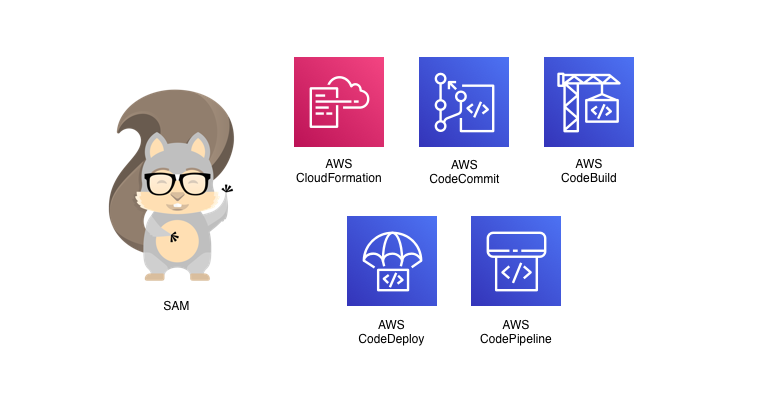
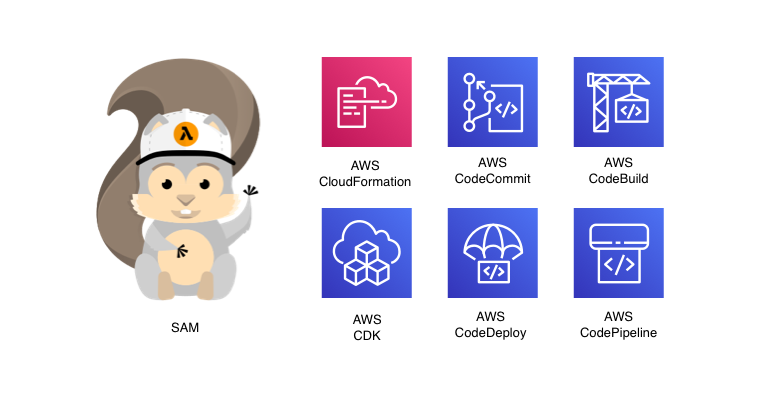
Updated intro to show CDK

diff --git a/README.md b/README.md
@@ -1,16 +1,18 @@
 # CI/CD for Serverless Applications Workshop
 
-In this workshop, you will learn how to start a new Serverless application from scratch using the AWS Serverless Application Model (AWS SAM) and how to fully automate builds and deployments by building a continous delivery pipeline using AWS CodeCommit, AWS CodeBuild and AWS CodePipeline. You will also learn how to test a Serverless application locally using the SAM CLI.
+In this workshop, you will learn how to start a new Serverless application from scratch using the AWS Serverless Application Model (AWS SAM) and how to fully automate builds and deployments by building a continous delivery pipeline using the AWS CDK. You will also learn how to run a Serverless application locally using the SAM CLI.
 
 ![Image](workshop/static/images/github-home.png)
 
 ## Getting Started
 
-[https://cicd.serverlessworkshops.io](https://cicd.serverlessworkshops.io)
+Workshop URL: [https://cicd.serverlessworkshops.io](https://cicd.serverlessworkshops.io)
+
+Looking for the old version of the workshop that **doesn't** use the AWS CDK? [https://v1.cicd.serverlessworkshops.io](https://cicd.serverlessworkshops.io). 
 
 ## Want to contribute?
 
-Check our [contribution guidelines](CONTRIBUTING.md) before submitting a pull request. Any contribution must be done to the `dev` branch.
+Check our [contribution guidelines](CONTRIBUTING.md) before submitting a pull request. Please submit your contributions to the `dev` branch.
 
 ## License
 

diff --git a/workshop/content/_index.en.md b/workshop/content/_index.en.md
@@ -5,9 +5,9 @@ weight = 1
 +++
 # CI/CD for Serverless Applications
 
-In this workshop, you will learn how to start a new Serverless application from scratch using the AWS Serverless Application Model (AWS SAM) and how to fully automate builds and deployments by building a continous delivery pipeline using AWS CodeCommit, AWS CodeBuild and AWS CodePipeline. You will also learn how to test a Serverless application locally using the SAM CLI. 
+In this workshop, you will learn how to start a new Serverless application from scratch using the AWS Serverless Application Model (AWS SAM) and how to fully automate builds and deployments by building a continous delivery pipeline using the AWS CDK. You will also learn how to run a Serverless application locally using the SAM CLI.
 
-![Intro](/images/intro.png)
+![Intro](/images/github-home.png)
 
 ### Issues, Comments, Feedback?
 
